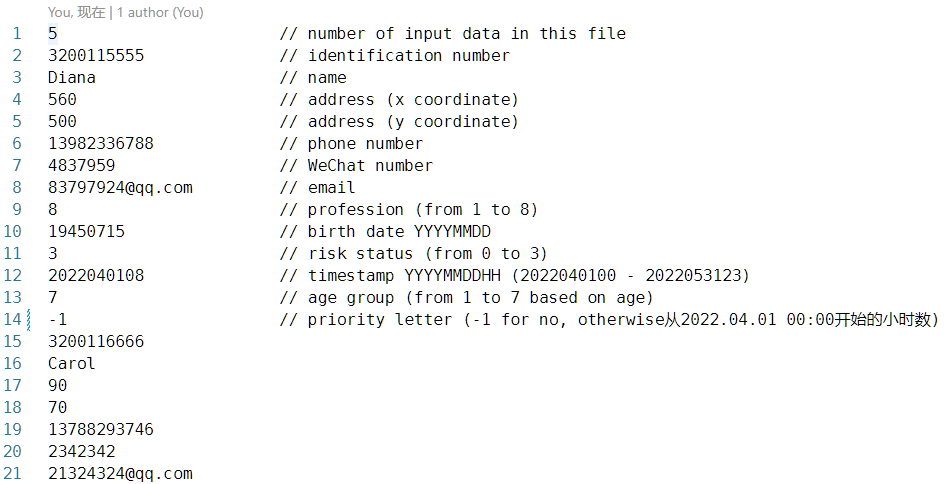
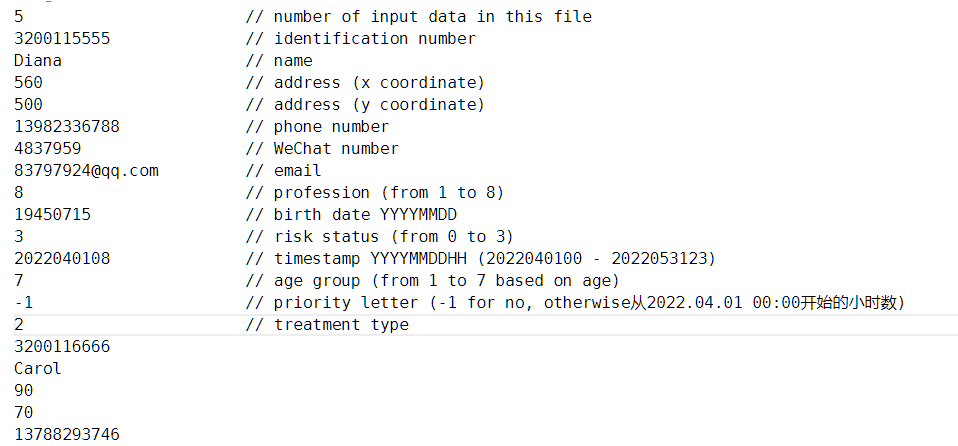
renew

Changed region(s): [[0.2442, 0.0291, 1.0, 0.7578], [0.0, 0.0, 0.2137, 0.4372], [0.0, 0.4664, 0.2137, 1.0]]

diff --git a/ComputingAssignment/CA2/README.md b/ComputingAssignment/CA2/README.md
@@ -19,7 +19,7 @@ There is a _Makefile_ you can use:
 
 ## To use
 
-If you have the executable file _test_, you can run it.
+If you have the executable file _main_, you can run it.
 
 The interface you will see looks like this:
 
@@ -46,7 +46,8 @@ _Note: Here **risk status = 2** is interpreted that this people will have the sa
 
 ### queuing
 
-Queuing is performed when they are added to central registry(when you type in `2`).
+Queuing is performed when they are added to central registry(when you type in `2`). At the same time, data would be arranged by B tree and
+B+ tree based on selected key.
 _Note: two week penalty is **added to the timestamp** when judging priority, which means it could be ignored if the priority can be judged by more important criteria like profession._
 
 #### Present priority letter
@@ -61,8 +62,8 @@ Type in `4`, follow the instruction to type in ID.
 
 #### appointment
 
-Type in `5`, this system will make appointments for queuing people. Appointment information is displayed in terminal.
-_Note: To set the daily capacity of each hospital, you can change the underlined parameters in main.cpp as shown._
+Type in `5`, this system will make appointments for people queuing based on different treatment types. Appointment information is displayed in terminal.
+_Note: To set each treatment type's daily capacity of each hospital, you can change the underlined parameters in main.cpp as shown._
 ![daily capacity](./img/capacity.png)
 
 ### reporting
